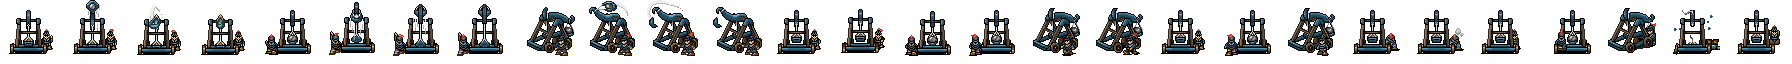
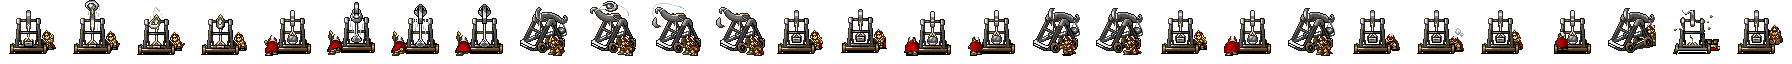
难度调整，形象调整

Changed region(s): [[0.0, 0.0312, 1.0, 0.875], [0.0312, 0.0312, 0.0625, 0.1875]]

diff --git a/Android/app/src/main/assets/game/Views/LogoView.js b/Android/app/src/main/assets/game/Views/LogoView.js
@@ -1,1 +1,1 @@
[2 lines of base64/hex data omitted]

diff --git a/Android/app/src/main/assets/game/Libraries/LPluginExtension.js b/Android/app/src/main/assets/game/Libraries/LPluginExtension.js
@@ -1,1 +1,1 @@
[2 lines of base64/hex data omitted]

diff --git a/Android/app/src/main/assets/game/Models/Master/CharacterModel.js b/Android/app/src/main/assets/game/Models/Master/CharacterModel.js
@@ -1,6 +1,9 @@
 function CharacterModel(controller, data) {
 	var self = this;
 	base(self, MyModel, [controller]);
+	if(!data.initSoldiers){
+		data.initSoldiers = data.soldiers;
+	}
 	self.data = data;
 	if(!self.data.feat){
 		self.data.feat = 0;
@@ -114,9 +117,6 @@ CharacterModel.getSoldierType = function(type, value){
 CharacterModel.setChara=function(list){
 	var fathers = [];
 	for(var i=0,l=list.length;i<l;i++){
-		if(!list[i].initSoldiers){
-			list[i].initSoldiers = list[i].soldiers;
-		}
 		var chara = new CharacterModel(null,list[i]);
 		chara.job(Job.IDLE);
 		chara.feat(0);
@@ -540,7 +540,13 @@ CharacterModel.prototype.employPrice = function() {
 	return ((100 + 5 * self.level()) * ((10 + self.data.employLevel) / 10)) >>> 0;
 };
 CharacterModel.prototype.isEmploy = function() {
-	return this.id() >= EmployCharacter[0] && this.id()<=EmployCharacter[1];
+	var self = this;
+	return (self.id() >= EmployCharacter[0] && self.id()<=EmployCharacter[1]) || 
+	(self.id() >= HardEmployCharacter[0] && self.id()<=HardEmployCharacter[1]);
+};
+CharacterModel.prototype.isHardEmploy = function() {
+	var self = this;
+	return self.id() >= HardEmployCharacter[0] && self.id()<=HardEmployCharacter[1];
 };
 CharacterModel.prototype.isDefCharacter = function(value) {
 	return this._dataValue("isDefCharacter", value, 0);
@@ -1132,9 +1138,20 @@ CharacterModel.prototype.initSoldiers = function() {
 	if(self.isEmploy()){
 		return self.soldiers();
 	}
-	var charaData = characterListConfig.find(function(c){
-		return c.id == self.id();
-	});
+	var charaData;
+	if(self.id() >= 1000){
+		var characters = LPlugin.characters();
+		charaData = characters.list.find(function(c){
+			return c.id == self.id();
+		});
+	}else{
+		charaData = characterListConfig.find(function(c){
+			return c.id == self.id();
+		});
+	}
+	if(!charaData || !charaData.initSoldiers){
+		return self.soldiers();
+	}
 	self.data.soldiers = [];
 	for(var i=0;i<charaData.initSoldiers.length;i++){
 		self.data.soldiers.push(charaData.initSoldiers[i]);
@@ -1265,6 +1282,11 @@ CharacterModel.prototype.soldiers = function() {
 	var self = this;
 	if(!self._soldiers){
 		self._soldiers = [];
+		try{
+			var test = self.data.soldiers.length;
+		}catch(e){
+			console.log(self.id(),self.name(),self.data);
+		}
 		for(var i=0;i<self.data.soldiers.length;i++){
 			var soldier = new SoldierModel(null, self.data.soldiers[i]);
 			self._soldiers.push(soldier);

diff --git a/Swift01/Swift01/game/Models/Master/CharacterModel.js b/Swift01/Swift01/game/Models/Master/CharacterModel.js
@@ -1,6 +1,9 @@
 function CharacterModel(controller, data) {
 	var self = this;
 	base(self, MyModel, [controller]);
+	if(!data.initSoldiers){
+		data.initSoldiers = data.soldiers;
+	}
 	self.data = data;
 	if(!self.data.feat){
 		self.data.feat = 0;
@@ -114,9 +117,6 @@ CharacterModel.getSoldierType = function(type, value){
 CharacterModel.setChara=function(list){
 	var fathers = [];
 	for(var i=0,l=list.length;i<l;i++){
-		if(!list[i].initSoldiers){
-			list[i].initSoldiers = list[i].soldiers;
-		}
 		var chara = new CharacterModel(null,list[i]);
 		chara.job(Job.IDLE);
 		chara.feat(0);
@@ -540,7 +540,13 @@ CharacterModel.prototype.employPrice = function() {
 	return ((100 + 5 * self.level()) * ((10 + self.data.employLevel) / 10)) >>> 0;
 };
 CharacterModel.prototype.isEmploy = function() {
-	return this.id() >= EmployCharacter[0] && this.id()<=EmployCharacter[1];
+	var self = this;
+	return (self.id() >= EmployCharacter[0] && self.id()<=EmployCharacter[1]) || 
+	(self.id() >= HardEmployCharacter[0] && self.id()<=HardEmployCharacter[1]);
+};
+CharacterModel.prototype.isHardEmploy = function() {
+	var self = this;
+	return self.id() >= HardEmployCharacter[0] && self.id()<=HardEmployCharacter[1];
 };
 CharacterModel.prototype.isDefCharacter = function(value) {
 	return this._dataValue("isDefCharacter", value, 0);
@@ -1132,9 +1138,20 @@ CharacterModel.prototype.initSoldiers = function() {
 	if(self.isEmploy()){
 		return self.soldiers();
 	}
-	var charaData = characterListConfig.find(function(c){
-		return c.id == self.id();
-	});
+	var charaData;
+	if(self.id() >= 1000){
+		var characters = LPlugin.characters();
+		charaData = characters.list.find(function(c){
+			return c.id == self.id();
+		});
+	}else{
+		charaData = characterListConfig.find(function(c){
+			return c.id == self.id();
+		});
+	}
+	if(!charaData || !charaData.initSoldiers){
+		return self.soldiers();
+	}
 	self.data.soldiers = [];
 	for(var i=0;i<charaData.initSoldiers.length;i++){
 		self.data.soldiers.push(charaData.initSoldiers[i]);
@@ -1265,6 +1282,11 @@ CharacterModel.prototype.soldiers = function() {
 	var self = this;
 	if(!self._soldiers){
 		self._soldiers = [];
+		try{
+			var test = self.data.soldiers.length;
+		}catch(e){
+			console.log(self.id(),self.name(),self.data);
+		}
 		for(var i=0;i<self.data.soldiers.length;i++){
 			var soldier = new SoldierModel(null, self.data.soldiers[i]);
 			self._soldiers.push(soldier);

diff --git a/Android/app/src/main/assets/game/Controllers/BattleController.js b/Android/app/src/main/assets/game/Controllers/BattleController.js
@@ -208,7 +208,14 @@ BattleController.prototype.charactersInit = function(){
 			self.battleData.toCity.money(-price);
 			enemyCharas.push(chara);
 		}
-	
+		if(!LMvc.TutorialController && selfAttack && LMvc.chapterData.trouble == TroubleConfig.HARD){
+			for(var i=HardEmployCharacter[0];i<HardEmployCharacter[0] + 2;i++){
+				var soldierId = SpecializedSoldiers[SpecializedSoldiers.length * Math.fakeRandom() >>> 0];
+				var chara = CharacterModel.createEmployCharacter(i, soldierId, self.battleData.toCity.id());
+				chara.troops(chara.maxTroops());
+				enemyCharas.push(chara);
+			}
+		}
 	}else{
 		enemyCharas = self.battleData.expeditionEnemyData.expeditionCharacterList;
 		self.battleData.food = self.battleData.expeditionEnemyData.food;
@@ -271,7 +278,8 @@ BattleController.prototype.defCharactersInit=function(){
 	var charaIndexObj = {};
 	var defense = self.battleData.toCity.cityDefense();
 	var isSelfDef = self.battleData.toCity.seigniorCharaId() == LMvc.selectSeignorId;
-	for(var i = 0;defense >= DefenseCharacterCost && i<defCharas.length;i++){
+	var defCostValue = DefenseCharacterCost;
+	for(var i = 0;defense >= defCostValue && i<defCharas.length;i++){
 		var child = defCharas[i];
 		var soldierId = child.id;
 		var key = "soldier_" + soldierId;
@@ -307,7 +315,7 @@ BattleController.prototype.defCharactersInit=function(){
 		}
 		var battleCharacter = self.view.charaLayer.getCharacter(null, charaId);
 		battleCharacter.mission = BattleCharacterMission.Defensive;
-		defense -= DefenseCharacterCost;
+		defense -= defCostValue;
 	}
 };
 BattleController.prototype.boutEnd=function(){

diff --git a/Swift01/Swift01/game/Controllers/BattleController.js b/Swift01/Swift01/game/Controllers/BattleController.js
@@ -208,7 +208,14 @@ BattleController.prototype.charactersInit = function(){
 			self.battleData.toCity.money(-price);
 			enemyCharas.push(chara);
 		}
-	
+		if(!LMvc.TutorialController && selfAttack && LMvc.chapterData.trouble == TroubleConfig.HARD){
+			for(var i=HardEmployCharacter[0];i<HardEmployCharacter[0] + 2;i++){
+				var soldierId = SpecializedSoldiers[SpecializedSoldiers.length * Math.fakeRandom() >>> 0];
+				var chara = CharacterModel.createEmployCharacter(i, soldierId, self.battleData.toCity.id());
+				chara.troops(chara.maxTroops());
+				enemyCharas.push(chara);
+			}
+		}
 	}else{
 		enemyCharas = self.battleData.expeditionEnemyData.expeditionCharacterList;
 		self.battleData.food = self.battleData.expeditionEnemyData.food;
@@ -271,7 +278,8 @@ BattleController.prototype.defCharactersInit=function(){
 	var charaIndexObj = {};
 	var defense = self.battleData.toCity.cityDefense();
 	var isSelfDef = self.battleData.toCity.seigniorCharaId() == LMvc.selectSeignorId;
-	for(var i = 0;defense >= DefenseCharacterCost && i<defCharas.length;i++){
+	var defCostValue = DefenseCharacterCost;
+	for(var i = 0;defense >= defCostValue && i<defCharas.length;i++){
 		var child = defCharas[i];
 		var soldierId = child.id;
 		var key = "soldier_" + soldierId;
@@ -307,7 +315,7 @@ BattleController.prototype.defCharactersInit=function(){
 		}
 		var battleCharacter = self.view.charaLayer.getCharacter(null, charaId);
 		battleCharacter.mission = BattleCharacterMission.Defensive;
-		defense -= DefenseCharacterCost;
+		defense -= defCostValue;
 	}
 };
 BattleController.prototype.boutEnd=function(){

diff --git a/Android/app/src/main/assets/game/config/characterListConfig.js b/Android/app/src/main/assets/game/config/characterListConfig.js
@@ -839,8 +839,11 @@ var characterListConfig = [{id:1,faceImg:1,force:72,intelligence:92,command:99,a
 ,{id:856,faceImg:856,force:52,intelligence:49,command:61,agility:64,luck:61,born:235,life:77,personalLoyalty:6,ambition:8,disposition:0,childs:[],skill:0,compatibility:130,soldiers:[{id:1,proficiency:0},{id:2,proficiency:700},{id:3,proficiency:0},{id:4,proficiency:0},{id:5,proficiency:0},{id:6,proficiency:0},{id:7,proficiency:0},{id:8,proficiency:0},{id:9,proficiency:0},{id:10,proficiency:0},{id:11,proficiency:0},{id:12,proficiency:0},{id:13,proficiency:0},{id:14,proficiency:500},{id:15,proficiency:0},{id:16,proficiency:0},{id:17,proficiency:0},{id:18,proficiency:0},{id:19,proficiency:0}],groupSkill:0,military:0}
 ];
 (function(){
-	var l =  683;
-	for (var i = l; i < l + 10; i++) {
+	for (var i = EmployCharacter[0]; i <= EmployCharacter[1]; i++) {
+		var id = i;
+		characterListConfig.push({id:id,faceImg:682,force:70,intelligence:70,command:70,agility:70,luck:70,born:0,life:0,personalLoyalty:0,ambition:15,disposition:0,childs:[],skill:0,compatibility:0,soldiers:[],groupSkill:0});
+	}
+	for (var i = HardEmployCharacter[0]; i <= HardEmployCharacter[1]; i++) {
 		var id = i;
 		characterListConfig.push({id:id,faceImg:682,force:70,intelligence:70,command:70,agility:70,luck:70,born:0,life:0,personalLoyalty:0,ambition:15,disposition:0,childs:[],skill:0,compatibility:0,soldiers:[],groupSkill:0});
 	}

diff --git a/Swift01/Swift01/game/config/characterListConfig.js b/Swift01/Swift01/game/config/characterListConfig.js
@@ -839,8 +839,11 @@ var characterListConfig = [{id:1,faceImg:1,force:72,intelligence:92,command:99,a
 ,{id:856,faceImg:856,force:52,intelligence:49,command:61,agility:64,luck:61,born:235,life:77,personalLoyalty:6,ambition:8,disposition:0,childs:[],skill:0,compatibility:130,soldiers:[{id:1,proficiency:0},{id:2,proficiency:700},{id:3,proficiency:0},{id:4,proficiency:0},{id:5,proficiency:0},{id:6,proficiency:0},{id:7,proficiency:0},{id:8,proficiency:0},{id:9,proficiency:0},{id:10,proficiency:0},{id:11,proficiency:0},{id:12,proficiency:0},{id:13,proficiency:0},{id:14,proficiency:500},{id:15,proficiency:0},{id:16,proficiency:0},{id:17,proficiency:0},{id:18,proficiency:0},{id:19,proficiency:0}],groupSkill:0,military:0}
 ];
 (function(){
-	var l =  683;
-	for (var i = l; i < l + 10; i++) {
+	for (var i = EmployCharacter[0]; i <= EmployCharacter[1]; i++) {
+		var id = i;
+		characterListConfig.push({id:id,faceImg:682,force:70,intelligence:70,command:70,agility:70,luck:70,born:0,life:0,personalLoyalty:0,ambition:15,disposition:0,childs:[],skill:0,compatibility:0,soldiers:[],groupSkill:0});
+	}
+	for (var i = HardEmployCharacter[0]; i <= HardEmployCharacter[1]; i++) {
 		var id = i;
 		characterListConfig.push({id:id,faceImg:682,force:70,intelligence:70,command:70,agility:70,luck:70,born:0,life:0,personalLoyalty:0,ambition:15,disposition:0,childs:[],skill:0,compatibility:0,soldiers:[],groupSkill:0});
 	}

diff --git a/Android/app/src/main/assets/game/Views/Battle/BattleCharacterView.js b/Android/app/src/main/assets/game/Views/Battle/BattleCharacterView.js
@@ -274,7 +274,7 @@ BattleCharacterView.prototype.loadSOver = function(event){
 		dataLayer.addChild(new LBitmap(baseData));
 		var shadow = new LDropShadowFilter(0,0,self.belong == Belong.SELF?"#FF0000":"#2a2af8",10);
 		dataLayer.filters = [shadow];
-		bitmapData = new LBitmapData(null, 0, 0, baseData.width, baseData.height, LBitmapData.DATA_CANVAS);
+		bitmapData = new LBitmapData(null, 0, 0, baseData.width, baseData.height);
 		bitmapData.draw(dataLayer);
 		bitmapData.setProperties(animeBitmapData.x,animeBitmapData.y,animeBitmapData.width,animeBitmapData.height);
 	}else{
@@ -370,7 +370,8 @@ BattleCharacterView.prototype.toDie = function() {
 	self.data.battleSoldierReset();
 	if(self.data.isDefCharacter()){
 		//防御设施被摧毁,城防降低
-		self.data.city().cityDefense(-DefenseCharacterCost * 0.5);
+		var defCostValue = DefenseCharacterCost;
+		self.data.city().cityDefense(-(defCostValue * 0.5 >>> 0));
 	}
 	if(!self.data.isDefCharacter() && !self.data.isTribeCharacter() && !self.data.isEmploy()){
 		var talkMsg;

diff --git a/Swift01/Swift01/game/Views/Battle/BattleCharacterView.js b/Swift01/Swift01/game/Views/Battle/BattleCharacterView.js
@@ -274,7 +274,7 @@ BattleCharacterView.prototype.loadSOver = function(event){
 		dataLayer.addChild(new LBitmap(baseData));
 		var shadow = new LDropShadowFilter(0,0,self.belong == Belong.SELF?"#FF0000":"#2a2af8",10);
 		dataLayer.filters = [shadow];
-		bitmapData = new LBitmapData(null, 0, 0, baseData.width, baseData.height, LBitmapData.DATA_CANVAS);
+		bitmapData = new LBitmapData(null, 0, 0, baseData.width, baseData.height);
 		bitmapData.draw(dataLayer);
 		bitmapData.setProperties(animeBitmapData.x,animeBitmapData.y,animeBitmapData.width,animeBitmapData.height);
 	}else{
@@ -370,7 +370,8 @@ BattleCharacterView.prototype.toDie = function() {
 	self.data.battleSoldierReset();
 	if(self.data.isDefCharacter()){
 		//防御设施被摧毁,城防降低
-		self.data.city().cityDefense(-DefenseCharacterCost * 0.5);
+		var defCostValue = DefenseCharacterCost;
+		self.data.city().cityDefense(-(defCostValue * 0.5 >>> 0));
 	}
 	if(!self.data.isDefCharacter() && !self.data.isTribeCharacter() && !self.data.isEmploy()){
 		var talkMsg;

diff --git a/Android/app/src/main/assets/game/Models/BattleModel.js b/Android/app/src/main/assets/game/Models/BattleModel.js
@@ -114,6 +114,9 @@ BattleModel.prototype.createMap = function(callback){
 		data.image.width = self.map.width;
 		data.image.height = self.map.height;
 	}
+	for(var dataIndex=0;dataIndex<BattleModel.bitmapDatas.length;dataIndex++){
+		BattleModel.bitmapDatas[dataIndex].lock();
+	}
 	self.createMapTile(0, callback);
 };
 BattleModel.prototype.createMapTile = function(index, callback){
@@ -148,7 +151,9 @@ BattleModel.prototype.createMapTile = function(index, callback){
 			self.createMapTile(index, callback);
 		});
 	}else{
-		self.mapBitmapData = BattleModel.bitmapDatas[0];
+		self.mapBitmapData = new LBitmapData(null, 0, 0, BattleModel.bitmapDatas[0].width, BattleModel.bitmapDatas[0].height);
+		self.mapBitmapData.draw(new LBitmap(BattleModel.bitmapDatas[0]));
+		BattleModel.bitmapDatas.length = 0;
 		callback.apply(self.controller,[]);
 	}
 };

diff --git a/Swift01/Swift01/game/Models/BattleModel.js b/Swift01/Swift01/game/Models/BattleModel.js
@@ -114,6 +114,9 @@ BattleModel.prototype.createMap = function(callback){
 		data.image.width = self.map.width;
 		data.image.height = self.map.height;
 	}
+	for(var dataIndex=0;dataIndex<BattleModel.bitmapDatas.length;dataIndex++){
+		BattleModel.bitmapDatas[dataIndex].lock();
+	}
 	self.createMapTile(0, callback);
 };
 BattleModel.prototype.createMapTile = function(index, callback){
@@ -148,7 +151,9 @@ BattleModel.prototype.createMapTile = function(index, callback){
 			self.createMapTile(index, callback);
 		});
 	}else{
-		self.mapBitmapData = BattleModel.bitmapDatas[0];
+		self.mapBitmapData = new LBitmapData(null, 0, 0, BattleModel.bitmapDatas[0].width, BattleModel.bitmapDatas[0].height);
+		self.mapBitmapData.draw(new LBitmap(BattleModel.bitmapDatas[0]));
+		BattleModel.bitmapDatas.length = 0;
 		callback.apply(self.controller,[]);
 	}
 };
